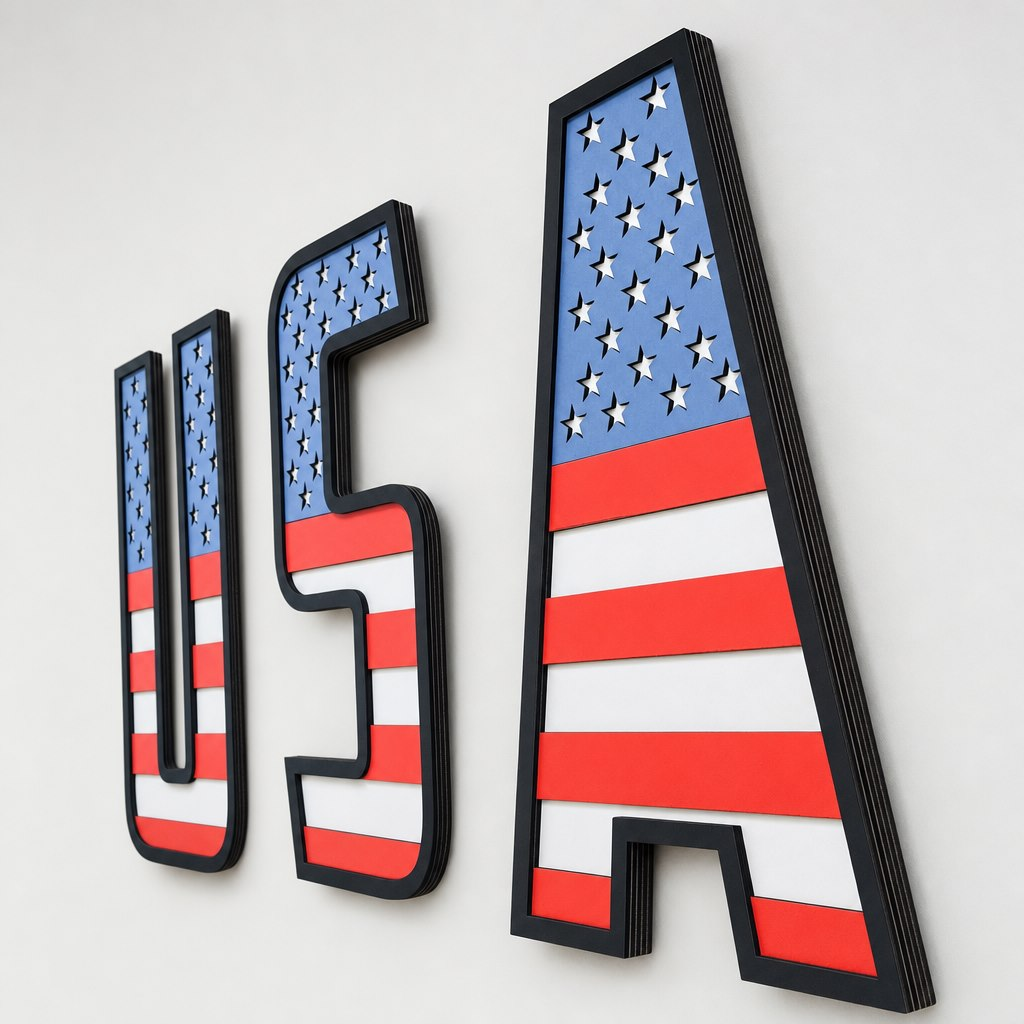
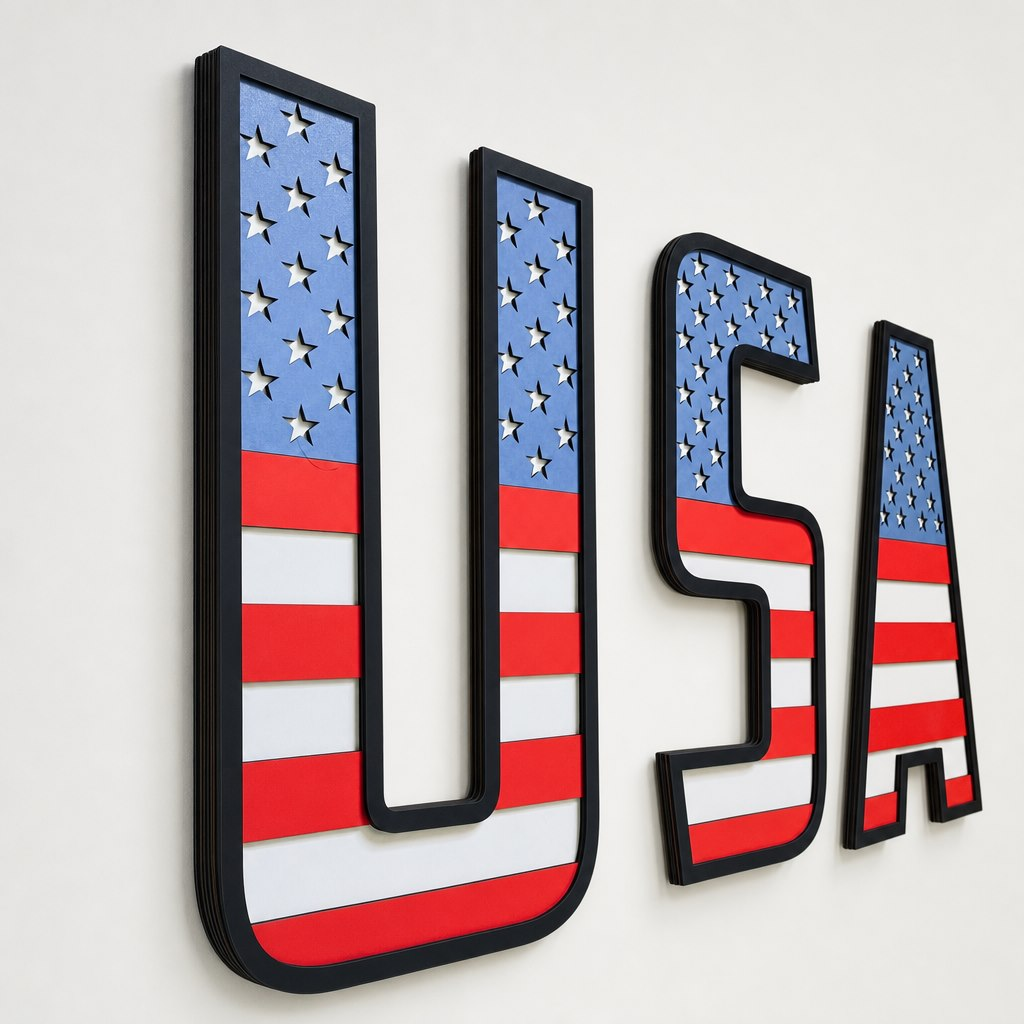
Add all 19 photos for STARS & STRIPES USA product gallery

diff --git a/stars-and-stripes-usa.html b/stars-and-stripes-usa.html
@@ -1,4 +1,4 @@
-<!DOCTYPE html>
+<!DOCTYPE html>
 <html lang="en">
 <head>
   <!-- Google tag (gtag.js) -->
@@ -1287,7 +1287,7 @@
   <!-- ── KAFT SHOWCASE SECTION (FULL VIEWPORT HORIZONTAL SHOWCASE) ── -->
   <section class="showcase-hero">
     
-    <!-- Continuously Auto-Scrolling Horizontal Viewport (Ordered 1 to 8) -->
+    <!-- Continuously Auto-Scrolling Horizontal Viewport (Ordered 1 to 19) -->
     <div class="showcase-viewport" id="showcaseViewport">
       <!-- Slide 1 -->
       <div class="showcase-slide" data-slide="1">
@@ -1306,7 +1306,7 @@
         </div>
         <div class="slide-badge">
           <span class="badge-dot"></span>
-          <span>02 / 3/4 Perspective Highlighting Multi-Tier Contour &amp; Shadow Depth</span>
+          <span>02 / Upward Low-Angle Perspective (Inline Layout)</span>
         </div>
       </div>
       <!-- Slide 3 -->
@@ -1316,7 +1316,7 @@
         </div>
         <div class="slide-badge">
           <span class="badge-dot"></span>
-          <span>03 / Opposing Angle Highlighting Precision Laser Cut Edges</span>
+          <span>03 / Left 3/4 Perspective Highlighting Layered Depth &amp; Shadow Relief</span>
         </div>
       </div>
       <!-- Slide 4 -->
@@ -1326,7 +1326,7 @@
         </div>
         <div class="slide-badge">
           <span class="badge-dot"></span>
-          <span>04 / Architectural Low Angle Elevation</span>
+          <span>04 / Right 3/4 Perspective Highlighting Precision Laser Cut Edges</span>
         </div>
       </div>
       <!-- Slide 5 -->
@@ -1336,7 +1336,7 @@
         </div>
         <div class="slide-badge">
           <span class="badge-dot"></span>
-          <span>05 / Dynamic Cascade / Diagonal Wall Mounting Layout</span>
+          <span>05 / Frontal Studio Elevation (Stepped Diagonal Cascade Layout)</span>
         </div>
       </div>
       <!-- Slide 6 -->
@@ -1346,7 +1346,7 @@
         </div>
         <div class="slide-badge">
           <span class="badge-dot"></span>
-          <span>06 / Side Perspective of Cascade Layout</span>
+          <span>06 / Upward Perspective (Stepped Diagonal Cascade Layout)</span>
         </div>
       </div>
       <!-- Slide 7 -->
@@ -1356,7 +1356,7 @@
         </div>
         <div class="slide-badge">
           <span class="badge-dot"></span>
-          <span>07 / Authentic Natural Timber Cladding Presentation</span>
+          <span>07 / Left Perspective (Stepped Diagonal Cascade Layout)</span>
         </div>
       </div>
       <!-- Slide 8 -->
@@ -1366,7 +1366,7 @@
         </div>
         <div class="slide-badge">
           <span class="badge-dot"></span>
-          <span>08 / Contemporary Bedroom Interior Wall Display</span>
+          <span>08 / Side Profile Highlighting Multi-Tier Relief Thickness</span>
         </div>
       </div>
       <!-- Slide 9 -->
@@ -1376,7 +1376,7 @@
         </div>
         <div class="slide-badge">
           <span class="badge-dot"></span>
-          <span>09 / Loft Living Space with Exposed Architectural Rafters</span>
+          <span>09 / Authentic Natural Timber Cladding (Inline Layout)</span>
         </div>
       </div>
       <!-- Slide 10 -->
@@ -1386,17 +1386,97 @@
         </div>
         <div class="slide-badge">
           <span class="badge-dot"></span>
-          <span>10 / Outdoor Column &amp; Porch Vertical Installation</span>
+          <span>10 / Authentic Natural Timber Cladding (Cascade Layout)</span>
         </div>
       </div>
       <!-- Slide 11 -->
       <div class="showcase-slide" data-slide="11">
         <div class="slide-media-wrap">
-          <img src="images/flag-stars-stripes-usa-11-blueprint.png" alt="STARS &amp; STRIPES USA View 11" loading="lazy" />
+          <img src="images/flag-stars-stripes-usa-11.jpg" alt="STARS &amp; STRIPES USA View 11" loading="lazy" />
         </div>
         <div class="slide-badge">
           <span class="badge-dot"></span>
-          <span>11 / Technical Architectural Blueprint • Dimensions &amp; Drill-Free Mounting</span>
+          <span>11 / Contemporary Bedroom Wall Display (Staggered Arrangement)</span>
+        </div>
+      </div>
+      <!-- Slide 12 -->
+      <div class="showcase-slide" data-slide="12">
+        <div class="slide-media-wrap">
+          <img src="images/flag-stars-stripes-usa-12.jpg" alt="STARS &amp; STRIPES USA View 12" loading="lazy" />
+        </div>
+        <div class="slide-badge">
+          <span class="badge-dot"></span>
+          <span>12 / Minimalist Master Bedroom Wall Display (Inline Layout)</span>
+        </div>
+      </div>
+      <!-- Slide 13 -->
+      <div class="showcase-slide" data-slide="13">
+        <div class="slide-media-wrap">
+          <img src="images/flag-stars-stripes-usa-13.jpg" alt="STARS &amp; STRIPES USA View 13" loading="lazy" />
+        </div>
+        <div class="slide-badge">
+          <span class="badge-dot"></span>
+          <span>13 / Loft Living Space with Exposed Architectural Rafters</span>
+        </div>
+      </div>
+      <!-- Slide 14 -->
+      <div class="showcase-slide" data-slide="14">
+        <div class="slide-media-wrap">
+          <img src="images/flag-stars-stripes-usa-14.jpg" alt="STARS &amp; STRIPES USA View 14" loading="lazy" />
+        </div>
+        <div class="slide-badge">
+          <span class="badge-dot"></span>
+          <span>14 / Loft Bedroom Wide Perspective Presentation</span>
+        </div>
+      </div>
+      <!-- Slide 15 -->
+      <div class="showcase-slide" data-slide="15">
+        <div class="slide-media-wrap">
+          <img src="images/flag-stars-stripes-usa-15.jpg" alt="STARS &amp; STRIPES USA View 15" loading="lazy" />
+        </div>
+        <div class="slide-badge">
+          <span class="badge-dot"></span>
+          <span>15 / Warm Ambient Illumination in Modern Interior</span>
+        </div>
+      </div>
+      <!-- Slide 16 -->
+      <div class="showcase-slide" data-slide="16">
+        <div class="slide-media-wrap">
+          <img src="images/flag-stars-stripes-usa-16.jpg" alt="STARS &amp; STRIPES USA View 16" loading="lazy" />
+        </div>
+        <div class="slide-badge">
+          <span class="badge-dot"></span>
+          <span>16 / Outdoor Architectural Column Vertical Installation (High-Res View)</span>
+        </div>
+      </div>
+      <!-- Slide 17 -->
+      <div class="showcase-slide" data-slide="17">
+        <div class="slide-media-wrap">
+          <img src="images/flag-stars-stripes-usa-17.jpg" alt="STARS &amp; STRIPES USA View 17" loading="lazy" />
+        </div>
+        <div class="slide-badge">
+          <span class="badge-dot"></span>
+          <span>17 / Porch &amp; Patio Architectural Context Presentation</span>
+        </div>
+      </div>
+      <!-- Slide 18 -->
+      <div class="showcase-slide" data-slide="18">
+        <div class="slide-media-wrap">
+          <img src="images/flag-stars-stripes-usa-18.jpg" alt="STARS &amp; STRIPES USA View 18" loading="lazy" />
+        </div>
+        <div class="slide-badge">
+          <span class="badge-dot"></span>
+          <span>18 / Sunlit Terrace Column Vertical Arrangement</span>
+        </div>
+      </div>
+      <!-- Slide 19 -->
+      <div class="showcase-slide" data-slide="19">
+        <div class="slide-media-wrap">
+          <img src="images/flag-stars-stripes-usa-19-blueprint.png" alt="STARS &amp; STRIPES USA View 19" loading="lazy" />
+        </div>
+        <div class="slide-badge">
+          <span class="badge-dot"></span>
+          <span>19 / Technical Architectural Blueprint • Dimensions &amp; Drill-Free Mounting</span>
         </div>
       </div>
     </div>
